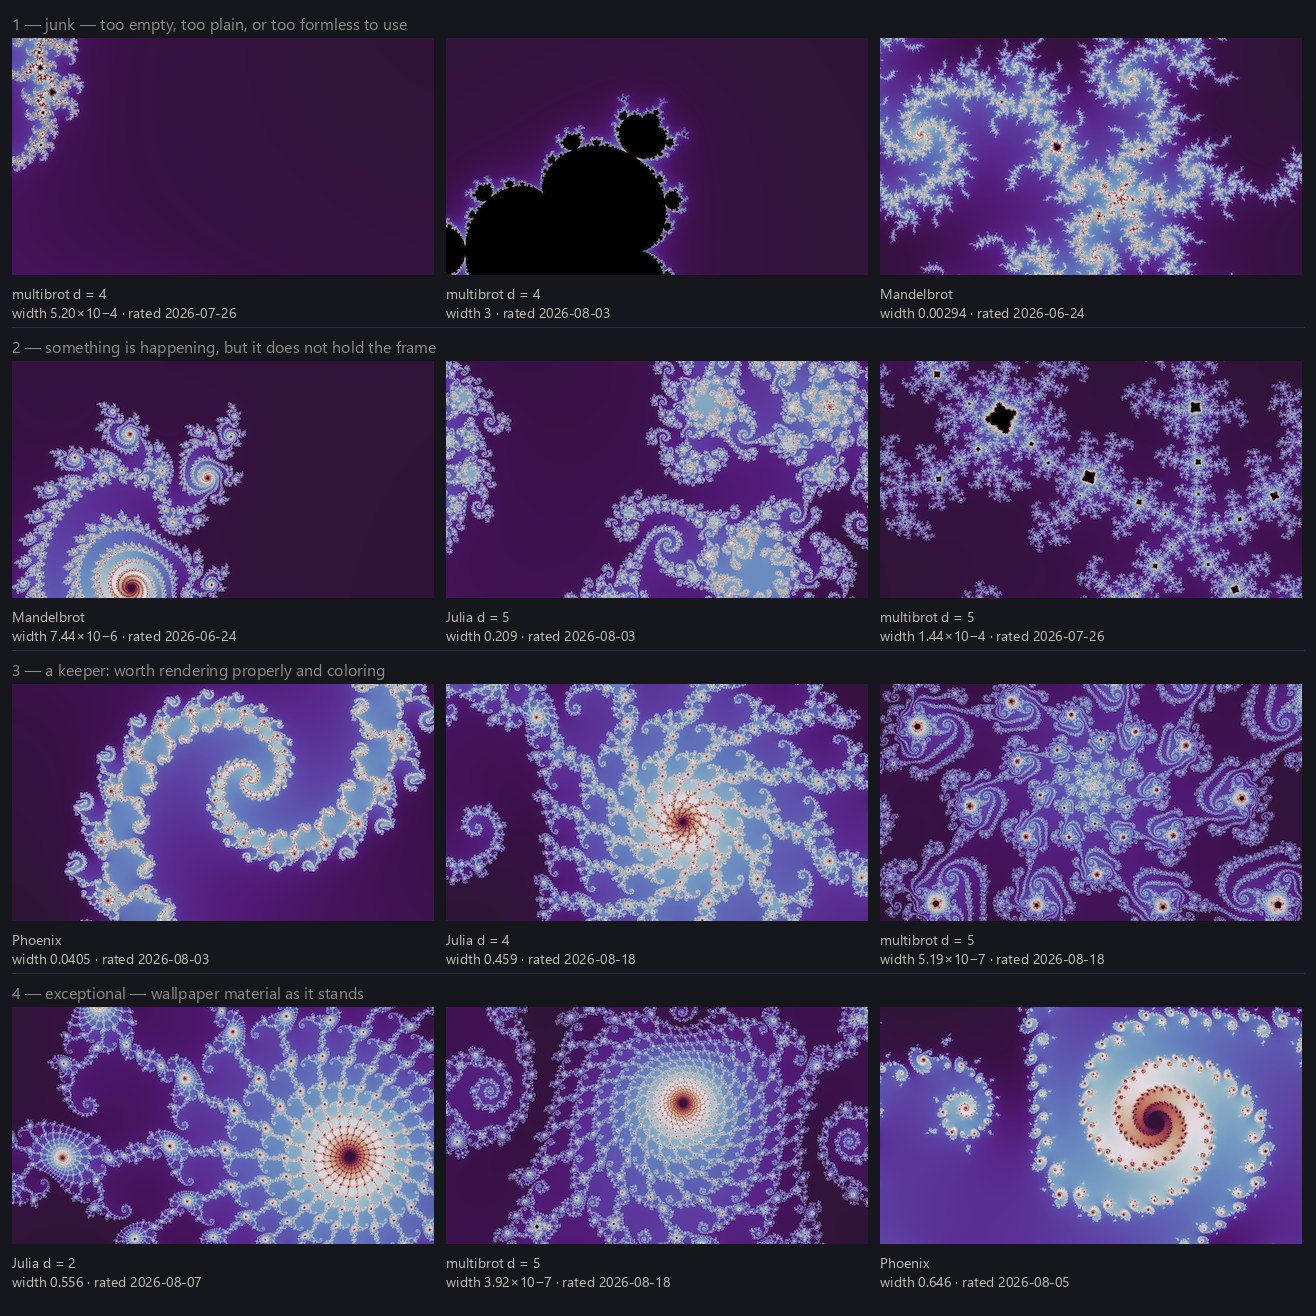
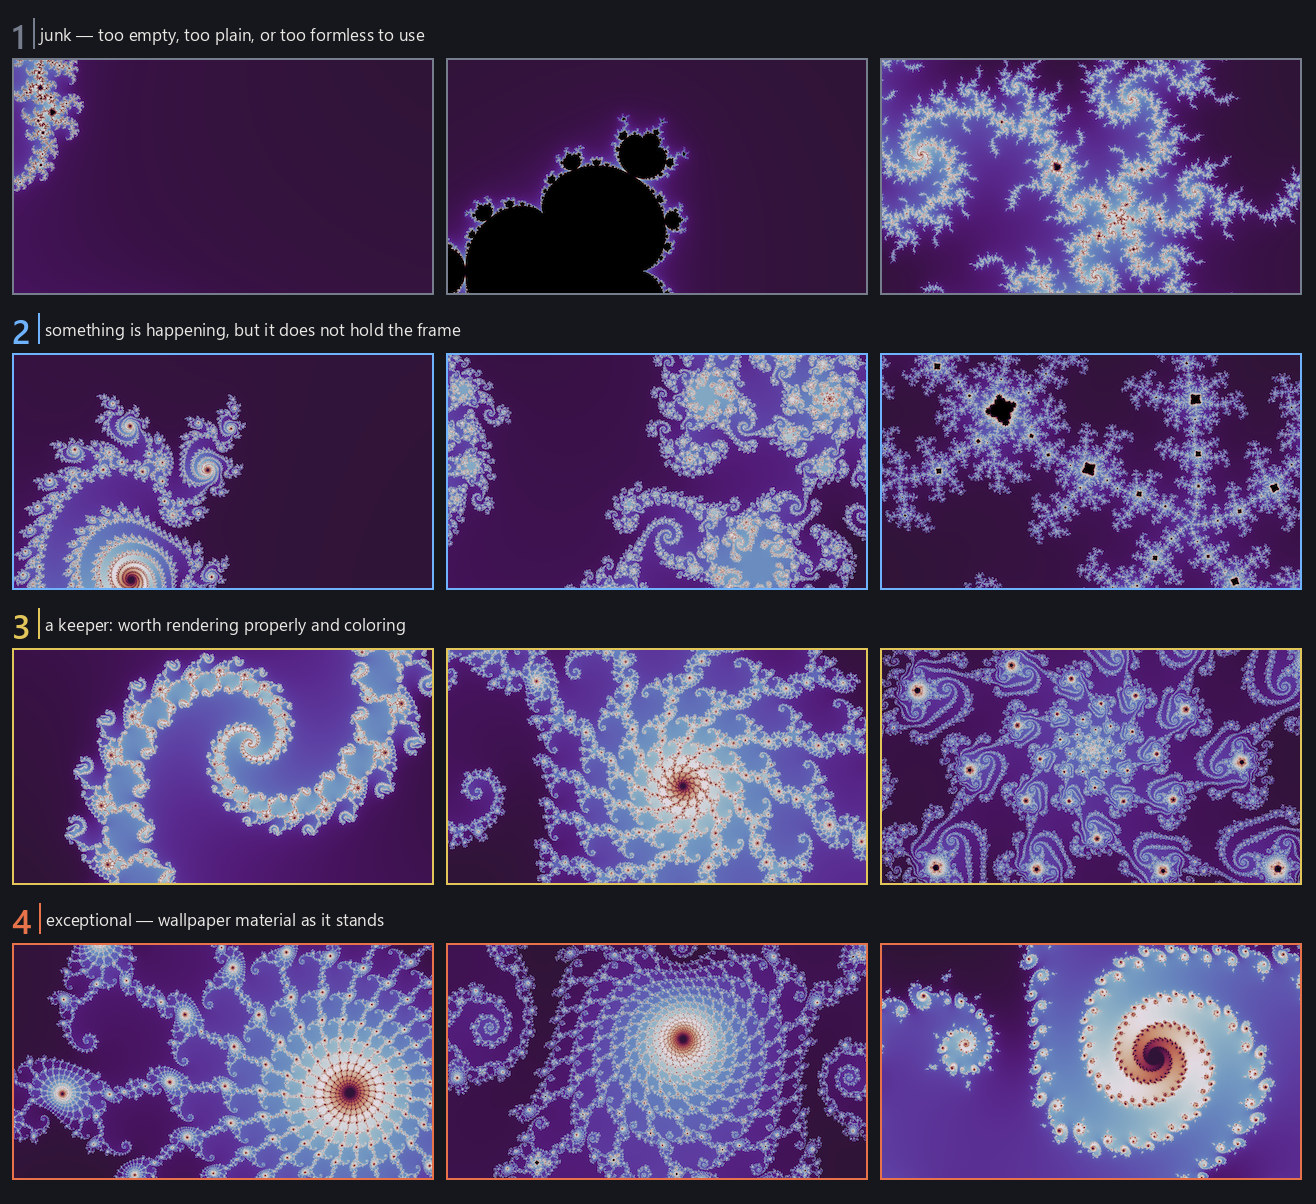
Apply Matt's locations review, and move the editorial rules off-repo
The tone ruling — the article reads as a SIGGRAPH paper or a Wikipedia
article — takes the standfirst off this page and the meta opener off
Minibrots. The rating-examples figure loses every per-panel width and
labelling date and gains a colour per rung, because a reader wants to see
what a 1 is beside what a 4 is, and a provenance record was standing
where their eye goes first.

Two claims were wrong and are corrected from source: the parameter-plane
pool is about five hundred nuclei per plane, not a few hundred, and it is
a fixed file a run walks a forward cursor through — new roots reach the
supply through the twin and proven channels, not by growing these pools.

The editorial rules now live in writing-guidance.md on the synced drive,
where the drafting sessions and Matt can write to them too, and every
apply round ends by distilling its own guidance back into it. A redrawn
figure finally has a landing path: figures place --replace.

Claude-Session: https://claude.ai/code/session_013effviuKNhvGy5y5WFhYYA

diff --git a/article/finding-good-locations.html b/article/finding-good-locations.html
@@ -49,10 +49,6 @@
 <header class="masthead">
   <p class="kicker">Section 5 of 10</p>
   <h1>Finding good locations</h1>
-  <p class="standfirst">What makes one view of a fractal worth keeping and another
-  worthless, and the guided walk that goes looking: roots drawn from pools, cheap
-  renders, structural gates, a judge that reads geometry, and the minibrots the search
-  navigates by.</p>
 </header>
 
 <main>
@@ -71,8 +67,8 @@
     <p>Whether a location is geometrically beautiful is, in the end, an aesthetic call. A view
     that is too busy for one person is delightful to another; a lone filament crossing open
     space might be dull in a gallery but exactly right on a desktop, where sparse geometry
-    leaves room for icons and text, while a dense tangle that prints beautifully can be
-    exhausting behind an already busy desktop. A few famous neighborhoods —
+    leaves room for icons and text, while an intricate spiral that prints beautifully
+    can be exhausting behind an already busy desktop. A few famous neighborhoods —
     <a href="https://en.wikipedia.org/wiki/Mandelbrot_set#Image_gallery_of_a_zoom_sequence">Seahorse
     Valley</a>, Elephant Valley — are beautiful by broad consensus, but they are tiny slivers
     of the territory worth exploring. The views below span that spectrum, and whether each
@@ -94,7 +90,7 @@
     examples from each category:</p>
 
       <figure class="figure" data-figure="locations-rating-examples">
-        <img src="../assets/images/figures/locations-rating-examples.jpg" width="1316" height="1316" alt="Four rows of locations, one row per rating from 1 to 4, three examples in each.">
+        <img src="../assets/images/figures/locations-rating-examples.jpg" width="1316" height="1204" alt="Four rows of locations, one row per rating from 1 to 4, three examples in each.">
         <figcaption>The four-point scale by example, with a line on each row saying what earns the score. What is being rated is the geometry, not the picture as drawn — the question is whether the place could make a good wallpaper across the modes and palettes available to it. <span class="credit">Rendered with fractal-wallpapers</span></figcaption>
       </figure>
 
@@ -128,16 +124,17 @@
 
     <h2 id="minibrots">Minibrots</h2>
 
-    <p>Before the walk itself, meet the landmark it navigates by. Escape-time sets have a
-    wonderful property: a set can contain miniature copies of itself. For the Mandelbrot set
-    we call these copies <i>minibrots</i>, and they are everywhere, at every scale; its
+    <p>Escape-time sets have a wonderful property: they contain infinitely many miniature
+    copies of themselves. For the Mandelbrot set we call these copies <i>minibrots</i>, and
+    they are everywhere, at every scale; its
     multibrot cousins carry miniature copies of their own. Two facts make them special to a
     search. First, each copy has an exact center — its <i>nucleus</i> — a point whose orbit
     repeats in a perfect cycle, which makes the nucleus the root of an equation that
     <a href="https://en.wikipedia.org/wiki/Newton%27s_method">Newton's method</a> can solve to
     full precision: a minibrot is not just a shape but an addressable coordinate at a known
-    scale. Second, the richest filament structure in the plane grows in the halo
-    <em>around</em> a copy — minibrots mark treasure.</p>
+    scale. Second, the richest filament structure in the complex plane grows in the
+    halo <em>around</em> a copy, and minibrots are often near aesthetically beautiful
+    locations.</p>
 
     <h2 id="the-walk">The walk</h2>
 
@@ -147,10 +144,12 @@
     <a href="escape-time-fractals.html">Escape-time fractals</a> — the Mandelbrot set as a map
     of all Julia sets — made literal); for the phoenix family, a pool of seed constants placed
     where the family's scarce plume structure is known to grow; for the parameter planes — the
-    Mandelbrot set and its multibrot cousins — a grid of a few hundred minibrot nuclei per
-    plane, plus each plane's home view. None of these pools is frozen: ratings and finds flow
-    back into them as new roots while the project runs, and
-    <a href="#seeds-from-labels">Seeds from labels</a> below is about exactly that.</p>
+    Mandelbrot set and its multibrot cousins — a grid of about five hundred minibrot nuclei
+    per plane, plus each plane's home view. Those pools are fixed files: a run walks a cursor
+    forward through one and can exhaust it. What is not fixed is the supply as a whole —
+    ratings and finds flow back as new roots through separate channels while the project
+    runs, and <a href="#seeds-from-labels">Seeds from labels</a> below is about exactly
+    that.</p>
 
       <figure class="figure" data-figure="phoenix-walk-root">
         <img src="../assets/images/figures/phoenix-walk-root.png" width="1316" height="446" alt="A Phoenix set framed two ways: cropped at both lobes on the left, wholly contained on the right.">
@@ -187,9 +186,9 @@
     <p>Score. The judge scores the very render the gates just examined — nothing larger is
     drawn, and that render is always in the same neutral palette, so the judge compares
     geometry and never coloring. The location judge returns the probability that the view would
-    be rated at least a 3 on the four-point scale above. At 0.385 or higher the frame is
-    <i>admitted</i>: recorded as a find and placed on the frontier. Between 0.1 and 0.385 it is
-    <i>expandable</i> — a stepping stone the walk may explore through, but never a find. Below
+    be rated at least a 3 on the four-point scale above. At about 0.4 or higher the frame is
+    <i>admitted</i>: recorded as a find and placed on the frontier. Between 0.1 and that floor
+    it is <i>expandable</i> — a stepping stone the walk may explore through, but never a find. Below
     that it is refused. One allowance keeps the parameter planes viable: a plane descent starts
     wide and bland before it gets good, so its first few steps get a waiver of the expandable
     bar rather than dying at the top.</p>

diff --git a/builder/locations.py b/builder/locations.py
@@ -1117,6 +1117,18 @@ RUNGS = {
     4: "exceptional — wallpaper material as it stands",
 }
 
+#: One colour per rung, so the four buckets read as four buckets before a word is read.
+#: A rating is ordinal, so this is a cool-to-warm ramp rather than four unrelated hues:
+#: the eye can put an unlabelled row in its place on the scale. Three of the four are
+#: the figure hues already on this page (`SEEDED_INK`, and the pair `diagrams.py` runs
+#: its orbit tracks in); the fourth is a slate quiet enough to say *nothing here*.
+RUNG_INK = {
+    1: (0x76, 0x7D, 0x8C),
+    2: (0x6F, 0xB3, 0xFF),
+    3: (0xE3, 0xC6, 0x5A),
+    4: (0xE8, 0x73, 0x4A),
+}
+
 
 def style_spectrum() -> Drawn:
     """Six locations in order of how full the frame is, with no verdict attached."""
@@ -1137,39 +1149,53 @@ def style_spectrum() -> Drawn:
     return Drawn(destination, _store_provenance("sparser to busier", SPECTRUM, picks, size, False))
 
 
+#: How tall the numeral that names a row is, and how much room its band needs.
+RUNG_NUMERAL = 34
+RUNG_BAND = 46
+
+
 def rating_examples() -> Drawn:
-    """The four-point scale by example, one row per rung, three locations each."""
+    """The four-point scale by example, one row per rung, three locations each.
+
+    Four buckets and nothing else. The figure used to print a family, a frame width and
+    a labelling date under every panel, which is a provenance record standing where a
+    reader's eye goes first — and none of it is what the figure is for. A reader wants
+    to know what a 1 looks like beside what a 4 looks like, so the rung is what is
+    loud: a numeral in the rung's own colour, the band it sits in, and a border in the
+    same colour around every panel that earned it. Where each panel came from is in the
+    registry's provenance, which is where a frame belongs.
+    """
     order = sorted(RATED)
     picks = {score: [label_row(*pick) for pick in RATED[score]] for score in order}
     size = panels(3)
-    cell = 26 + size[1] + 8 + 2 * 20
+    cell = RUNG_BAND + size[1]
     height = sheets.PAD + len(order) * (cell + sheets.PAD) + sheets.PAD
     sheet, draw = sheets.canvas(SHEET_WIDTH, height)
     for row_index, score in enumerate(order):
         y = sheets.PAD + row_index * (cell + sheets.PAD)
-        if row_index:
-            rule(draw, y - 8)
-        heading(draw, sheets.PAD, y, f"{score} — {RUNGS[score]}", size=16)
+        _rung_band(draw, y, score)
         for column, row in enumerate(picks[score]):
             x = sheets.PAD + column * (size[0] + sheets.PAD)
             picture = cache().render(f"rated-{score}-{column}", location(row), size)
-            sheet.paste(sheets.fitted(picture.path, size), (x, y + 26))
-            stack(
-                draw,
-                x,
-                y + 26 + size[1] + 8,
-                [
-                    _family_name(row["family"]),
-                    f"width {sheets.width_text(row['viewport']['width'])}"
-                    f"{sheets.MIDDOT}rated {_day(row['recorded_at'])}",
-                ],
-                size=14,
-                lead=WELL_INK_DIM,
+            sheet.paste(sheets.fitted(picture.path, size), (x, y + RUNG_BAND))
+            draw.rectangle(
+                [x, y + RUNG_BAND, x + size[0] - 1, y + RUNG_BAND + size[1] - 1],
+                outline=RUNG_INK[score],
+                width=2,
             )
     destination = sheets.save(sheet, sheet_path("locations-rating-examples"))
     flat = [pick for score in order for pick in RATED[score]]
     rows = [row for score in order for row in picks[score]]
     return Drawn(destination, _store_provenance("by rating, 1 to 4", flat, rows, size, True))
+
+
+def _rung_band(draw, y: int, score: int) -> None:
+    """The numeral that names a rung, and the sentence that says what earns it."""
+    face = font(RUNG_NUMERAL, SEMIBOLD)
+    draw.text((sheets.PAD, y), str(score), fill=RUNG_INK[score], font=face)
+    x = sheets.PAD + round(text_width(draw, str(score), face)) + 14
+    draw.line([x - 7, y + 6, x - 7, y + RUNG_NUMERAL + 2], fill=RUNG_INK[score], width=2)
+    draw.text((x, y + 10), RUNGS[score], fill=WELL_INK, font=font(17))
 
 
 def _day(stamp: str) -> str:

diff --git a/builder/figures.py b/builder/figures.py
@@ -250,6 +250,7 @@ def place(
     *,
     provenance: list[str] | None = None,
     recipe: dict | None = None,
+    replace: bool = False,
 ) -> Figure:
     """Turn a pending row into a made one, and heal the well its page is still showing.
 
@@ -258,6 +259,13 @@ def place(
     the page by hand. A size typed one digit wrong is a failing `check` at best and a
     stretched picture at worst, so none of it is typed here.
 
+    `replace` is the same landing for a figure that is already made and has been **drawn
+    again** — a review round that redesigns a picture, which is the only way a made
+    figure legitimately changes. It is opt-in because the far commoner call is a first
+    placement, and a redraw that lands by accident is a picture nobody chose to change;
+    the row and the page are rewritten exactly as a first placement writes them, so a
+    new size reaches the `<img>` rather than stretching the old one.
+
     Everything that can refuse refuses *before* anything is written: a made row with no
     provenance is a row `load_all` will not read back, and writing one would leave the
     registry unloadable rather than merely wrong.
@@ -265,9 +273,10 @@ def place(
     figure = load_all().get(identifier)
     if figure is None:
         raise records.RecordError(f"no figure {identifier!r} in the registry")
-    if not figure.pending:
+    if not figure.pending and not replace:
         raise records.RecordError(
-            f"{identifier} is already made, as {figure.file} — place is for a pending row"
+            f"{identifier} is already made, as {figure.file} — place is for a pending row. "
+            "Pass --replace to land a redraw of a figure that is already on the page."
         )
     lines = [line for line in FIGURE_REGISTRY.read_text(encoding="utf-8").splitlines() if line]
     rows = [json.loads(line) for line in lines]

diff --git a/builder/__main__.py b/builder/__main__.py
@@ -100,6 +100,11 @@ def _parser() -> argparse.ArgumentParser:
         action="store_true",
         help="import each drawn sheet as its figure's asset and fill its registry row",
     )
+    made.add_argument(
+        "--replace",
+        action="store_true",
+        help="land the redraw over a figure that is already made, page and row together",
+    )
 
     drawn = commands.add_parser("diagram", help="draw one of the figures that is not a render")
     drawn.add_argument("id", choices=sorted(diagrams.DIAGRAMS), help="the diagram's figure id")
@@ -277,6 +282,7 @@ def _do_locations(options: argparse.Namespace) -> int:
             height,
             provenance=list(drawn.provenance),
             recipe=locations_module.recipe(identifier),
+            replace=options.replace,
         )
         size = destination.stat().st_size / 1024
         print(f"  {destination.name}  {width}x{height}  ({size:.0f} KB) — {placed.page}")

diff --git a/builder/review.py b/builder/review.py
@@ -143,8 +143,13 @@ def paragraphs_for(page: str, master: prose.Master | None) -> list[Paragraph]:
         Paragraph(HEADING, "How to mark this doc"),
         *(Paragraph(NORMAL, line) for line in CONVENTION),
         Paragraph(HEADING, "Prose"),
-        Paragraph(NORMAL, STANDFIRST_LINE.format(text=prose.standfirst_of(page_html))),
     ]
+    # A page need not carry a standfirst — the 2026-08-21 review ruled the device off
+    # `finding-good-locations`, and an empty "Standfirst:" line in the doc is a line
+    # Matt can mark up that stands for nothing.
+    standfirst = prose.standfirst_of(page_html)
+    if standfirst:
+        written.append(Paragraph(NORMAL, STANDFIRST_LINE.format(text=standfirst)))
     written.extend(_prose_paragraphs(blocks))
     written.extend(_caption_paragraphs(blocks))
     return written

diff --git a/docs/page-review.md b/docs/page-review.md
@@ -44,7 +44,8 @@ What the doc contains, in order:
 
 - the page's title, and a line naming the page, the master, and the build date;
 - the annotation convention, spelled out;
-- the standfirst, then the prose **as served** — headings, paragraphs, bullets, code
+- the standfirst where the page still carries one, then the prose **as served** —
+  headings, paragraphs, bullets, code
   lines, table rows as `| cell | cell |`, and a `[figure: slug]` marker standing where
   each picture sits;
 - every figure caption on the page, one line per slug, read off the figure registry.
@@ -94,7 +95,7 @@ round starts from a page that no longer matches its master.
 | --- | --- |
 | A sentence of prose | `article/<page>.html`, **and** the placement script's literal under `scratch/` if one exists for that page, **and** the prose master in `prose\` |
 | A figure caption | the figure's row in `assets/images/figures/figures.jsonl` — never the page. `python -m builder check` re-derives the block and will say so if the page was edited instead |
-| The standfirst | the page's masthead. The front page's blurb for that section is separate prose that often says the same thing — read it, and change it if the edit applies there too |
+| The standfirst | the page's masthead — and cutting it is an edit like any other, since the tone ruling in `writing-guidance.md` says a page opens on its lead. The front page's blurb for that section is separate prose that often says the same thing — read it, and change it if the edit applies there too |
 | A heading | the page. `python -m builder build` regenerates its id and every rail that lists it |
 
 The placement scripts live in ignored `scratch/`, so one may simply not be there on this
@@ -124,33 +125,43 @@ be applied a second time onto a page that already has it.
 Then the report, per the standing prompt contract in `CLAUDE.md`: what changed, an answer
 to every `[M: ...]` question, and anything flagged rather than applied. Commit the work.
 
+### Every round ends by distilling its guidance
+
+The last step of an apply, before the report is written, is to read that round's `[M: ...]`
+notes again and ask of each one: **is this a rule, or is it this sentence?**
+
+A rule goes into `writing-guidance.md` — attributed to Matt and dated, phrased so it
+governs a page nobody has written yet, and consolidated with anything already there that
+says the same thing. A note about this sentence goes into the page and the report and
+nowhere else.
+
+This is what stops the loop from re-litigating the same ruling every round. A principle
+Matt states once is a principle every later session already knows, and a round that
+applies its edits without distilling them has thrown that away. Nothing is deleted or
+weakened there without Matt's explicit word; adding and consolidating need nobody's
+permission.
+
 ## The editorial rules
 
-These govern every edit an apply session makes, whether or not the annotation mentions
-them. An edit that satisfies Matt's note and breaks one of these is not done.
+They are **not in this repository**. The single editorial authority for the website is
 
-- **Audience**: an advanced high-school CS student who knows calculus, or a college CS
-  student. Assume that much and no more.
-- **Wikipedia's structure**: descriptive section titles that say what the section covers,
-  so a reader can skip on the title alone.
-- **Wikipedia links on first mention** of a genuinely new topic, and sparingly — a page
-  of blue is a page nobody clicks.
-- **Always "complex plane"**, spelled out, never "the plane" on its own.
-- **Unpack dense sentences.** Two clear sentences beat one that has to be read twice.
-- **Never artificial counts.** "Three things make this work" is a promise the prose then
-  has to keep; write what is true instead.
-- **Set a claim up before asserting it.** The reader meets the reason, then the claim.
-- **No falsely-discrete conclusions.** Where the truth is a spectrum or a judgment call,
-  the sentence says so.
-- **Figures teach**, and they are a fixed 16:9. A figure that only decorates comes out.
-- **First mention of the article's own vocabulary is `<i>`**, once for the whole article
-  in reading order — the convention in `CLAUDE.md`. Captions sit outside that count.
-- **Index and section blurbs are concrete and active**: what the section does or teaches,
-  in words the reader already has. No pipeline jargon before the pipeline is taught.
-- **No light-gray text.** The quiet voice is `--ink-dim`, one step off `--ink` and 10:1
-  against the page; both values live in `assets/css/site.css` and nowhere else.
-- **A figure that wants a high-quality location** uses only rows Matt explicitly rated 4.
-  Never a machine pick, however high it scored.
+```
+C:\Code\fractal-drive-sync\prose\writing-guidance.md
+```
+
+read through `drive_sync_root` in the untracked `local.toml`, the same way the review
+docs and the prose masters are. It is a curated living document — audience, register,
+structure, links, claims, figures, blurbs, contrast, and which locations a figure may
+use — and it governs every edit an apply session makes, whether or not the annotation
+mentions it. **An edit that satisfies Matt's note and breaks one of those rules is not
+done.**
+
+It lives on the synced drive rather than here because both halves of this project write
+to it: the claude.ai design sessions that draft a page, the Claude Code sessions that
+apply a review round, and Matt at any time. A copy in the repo would be a second answer
+to what the house style is, free to drift from the one the drafting sessions read.
+
+Read it before applying anything.
 
 ## When the doc comes back as a Google-native document
 

diff --git a/CLAUDE.md b/CLAUDE.md
@@ -22,6 +22,10 @@ permanent in a way a variable name is not, so a slug is worth the extra minute.
 
 ## Editorial conventions
 
+The naming rule above and the italic rule below are the two that touch markup and
+filenames, so they are stated here where a session meets them. `writing-guidance.md` on
+the synced drive is the authority for everything else the prose is held to.
+
 - **A term's first mention is italic.** Where the article introduces a piece of its own
   vocabulary — defines it, or first puts it to work — that mention is wrapped in `<i>`:
   *pipeline*, *location*, *escape time*, *palette*, a mode name. This is Wikipedia's
@@ -52,9 +56,13 @@ workflow — read it before running either.**
   claim is verified from code or records before it lands, or it is flagged and left out.
   Then `--consume`, so a stale doc can never be applied twice.
 
-`docs/page-review.md` also carries the **editorial rules that govern every edit** —
-audience, structure, links, claims, figures, blurbs, contrast, and which locations a
-figure may use. They apply whether or not an annotation mentions them.
+The **editorial rules that govern every edit** — audience, register, structure, links,
+claims, figures, blurbs, contrast, and which locations a figure may use — are not in this
+repository. They live in `C:\Code\fractal-drive-sync\prose\writing-guidance.md`, a
+curated living document the claude.ai design sessions and Matt write to as well, and they
+apply whether or not an annotation mentions them. `docs/page-review.md` points at it and
+keeps the mechanics. **Every apply round ends by distilling that round's generalizable
+`[M:]` guidance back into it.**
 
 ## Locked conventions
 
